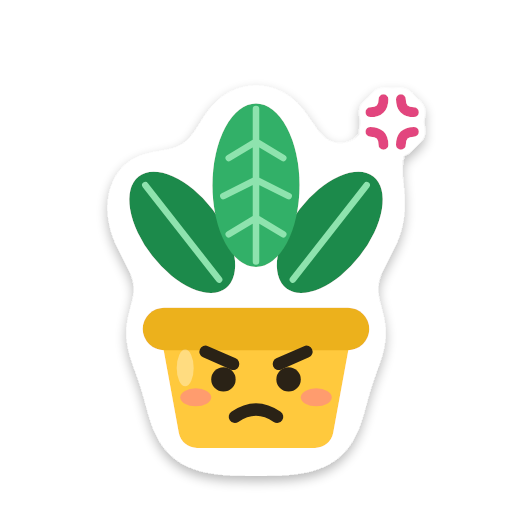
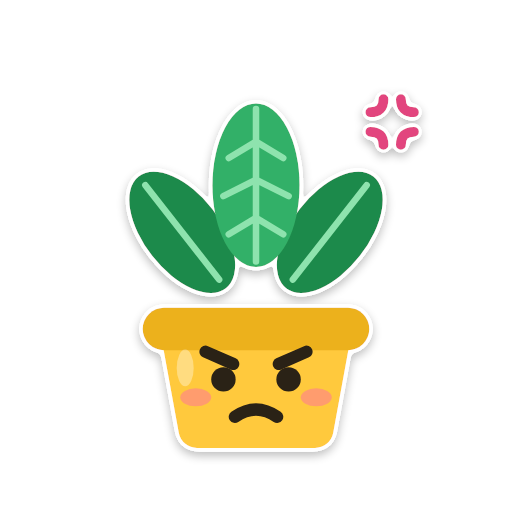
Thin white outline

diff --git a/build.js b/build.js
@@ -82,15 +82,14 @@ const SET = [
   ['12-wink', 'coleus', 'wink', 5, '😉', 'wink'],
 ];
 
-// White sticker outline with a soft shadow. Two blur + threshold masks, joined:
-// a thin round edge around every detail, and a smooth blob that fills the gaps between leaves.
-const EDGE = [1.3, .06, 30], BLOB = [5, .14, 120]; // [blur, cut, sharpness]: more blur = smoother, lower cut = wider
-const mask = ([blur, cut, k], out) => `<feGaussianBlur in="SourceAlpha" stdDeviation="${blur}"/>
-  <feComponentTransfer result="${out}"><feFuncA type="linear" slope="${k}" intercept="${-k * cut}"/></feComponentTransfer>`;
+// Thin white sticker outline with a soft shadow. Blur + threshold gives a round edge
+// (a box-shaped dilate makes square corners).
+const EDGE = [.6, .1, 25]; // [blur, cut, sharpness]: more blur or lower cut = wider outline
 const FILTER = `<filter id="o" x="-30%" y="-30%" width="160%" height="160%">
-  ${mask(EDGE, 'e')}${mask(BLOB, 'b')}<feComposite in="e" in2="b" operator="over" result="d"/>
+  <feGaussianBlur in="SourceAlpha" stdDeviation="${EDGE[0]}"/>
+  <feComponentTransfer result="d"><feFuncA type="linear" slope="${EDGE[2]}" intercept="${-EDGE[2] * EDGE[1]}"/></feComponentTransfer>
   <feFlood flood-color="#fff"/><feComposite in2="d" operator="in" result="w"/>
-  <feGaussianBlur in="d" stdDeviation="1.1"/><feOffset dy=".9"/><feComponentTransfer><feFuncA type="linear" slope=".28"/></feComponentTransfer>
+  <feGaussianBlur in="d" stdDeviation=".9"/><feOffset dy=".7"/><feComponentTransfer><feFuncA type="linear" slope=".25"/></feComponentTransfer>
   <feMerge><feMergeNode/><feMergeNode in="w"/><feMergeNode in="SourceGraphic"/></feMerge></filter>`;
 
 fs.mkdirSync(path.join(__dirname, 'svg'), { recursive: true });
